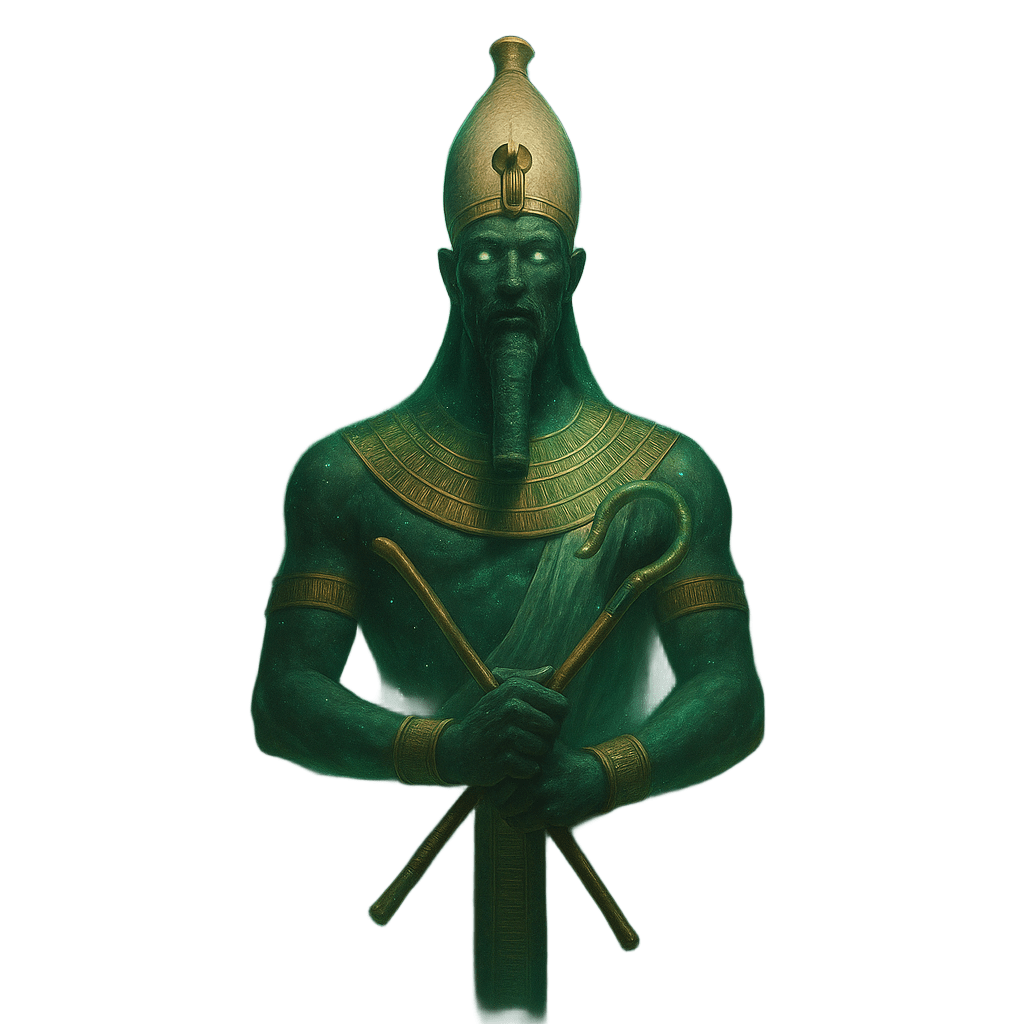
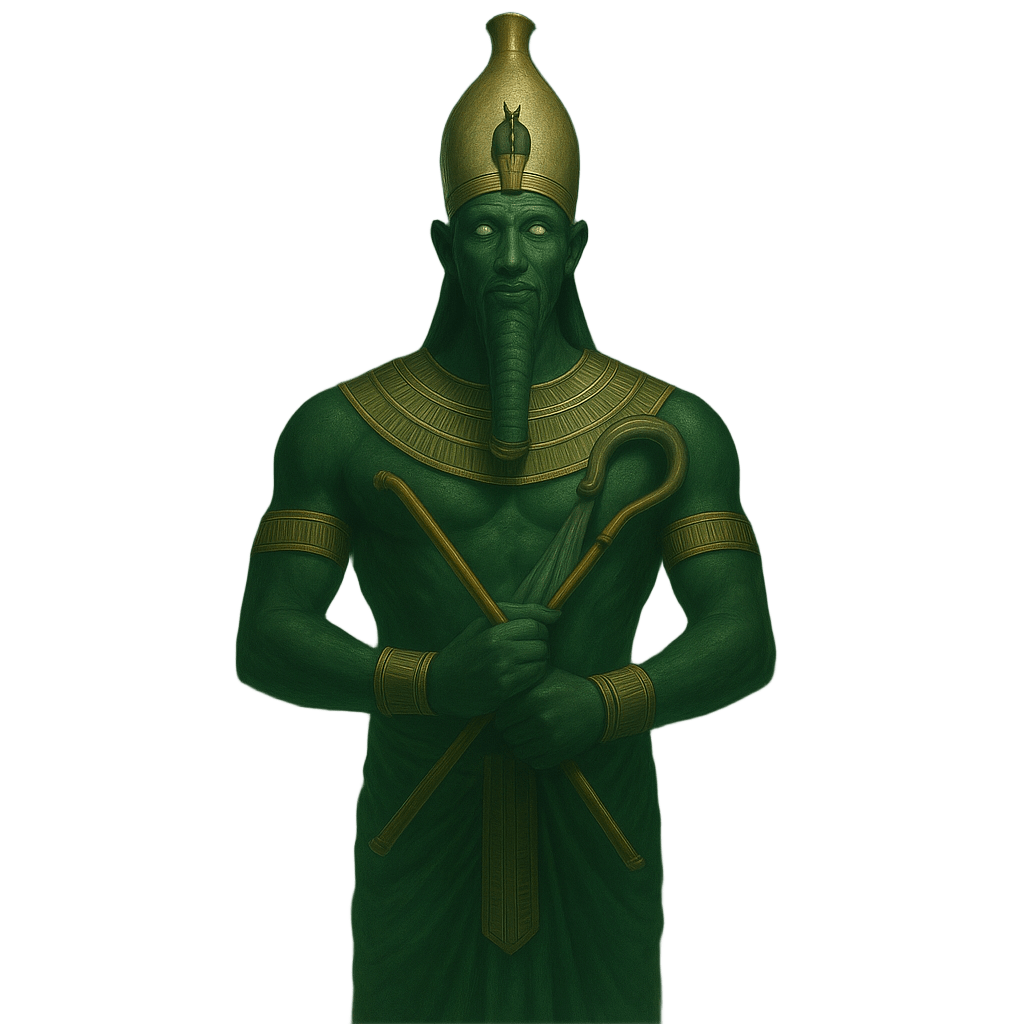
adicionando varias modificaçoes feitas ao longo da semana

Changed region(s): [[0.2188, 0.0, 0.7812, 1.0]]

diff --git a/src/css/style.css b/src/css/style.css
@@ -1,5 +1,5 @@
 body {
-    background-image: url(../imagens/background-principal.webp);
+    background-image: url(../imagens/5.png);
     background-size: cover;
     background-repeat: no-repeat;
     background-position: center;
@@ -26,9 +26,15 @@ h1 {
 
 }
 
+h2 {
+    color: #ffffff;
+    margin-top: 20px;
+
+}
+
 .subtitulo {
     font-size: 1.5rem;
-    color: #2c2727;
+    color: #ffffff;
     margin-bottom: 50px;
     text-align: center;
     text-shadow: 2px 2px 5px #000;
@@ -37,15 +43,21 @@ h1 {
 
 
 .botao {
-    min-width: 150px;
+    min-width: 300px;
+    min-height: 80px;
     max-width: 300px;
+    color:rgba(51, 223, 253, 0.9); 
     display: flex;
     justify-content: center;
-    background-color: #c8fccf;
+    background-image: url(../imagens/4.png);
+       background-size: cover;
+    background-repeat: no-repeat;
+    background-position: center;
+    /* background-attachment: fixed; */
     font-size: 20px;
     margin: 30px;
     border: none;
-    padding: 10px 20px;
+    padding: 25px 20px;
     border-radius: 10px;
     font-weight: bold;
     transition: 0.3s;
@@ -53,10 +65,10 @@ h1 {
 }
 
 .botao:hover {
-    background-color: #00cc44;
     color: #fff;
+    /* background-image: url(../imagens/5.png); */
     transform: translateY(-5px);
-    box-shadow: 0 10px 30px rgb(27, 12, 236);
+    box-shadow: 0 10px 30px #ffffff
 
 }
 
@@ -90,7 +102,7 @@ li {
 
 .comando img:hover {
     transform: scale(1.05);
-      box-shadow: 0 10px 30px rgb(52, 51, 65);
+      box-shadow: 0 10px 30px #ffffff
 }
 
 .legenda {
@@ -106,5 +118,6 @@ footer {
     padding: 2rem 1rem;
     margin-top: 3rem;
     font-size: 0.9rem;
-    color: #000000;
+    color: #ffffff;
 }
+

diff --git a/personagens/personagens.html b/personagens/personagens.html
@@ -385,7 +385,7 @@
                         <span class="tipo">Ignis</span>
 
                         <div class="cartao-imagem">
-                            <img src="./src//imagens/rammon (1).png" alt="rammon">
+                            <img src="./src//imagens/Rammon.png" alt="rammon">
                         </div>
                     </div>
 
@@ -486,12 +486,12 @@
 
 
                     <li class="personagem" id="seth">
-                        <img src="./src/imagens/Seth2.png" alt="Seth">
+                        <img src="./src/imagens/seth2.png" alt="Seth">
                         <span>Seth</span>
                     </li>
 
                     <li class="personagem" id="osiris">
-                        <img src="./src/imagens/osiris.png" alt="osiris">
+                        <img src="./src/imagens/osiris2.png" alt="osiris">
                         <span>Osiris</span>
                     </li>
 
@@ -533,7 +533,7 @@
                     </li>
 
                     <li class="personagem" id="rammon">
-                        <img src="./src/imagens/rammon (1).png" alt="Rammon">
+                        <img src="./src/imagens/Rammon2.png" alt="Rammon">
                         <span>Rammon</span>
                     </li>
 

diff --git a/index.html b/index.html
@@ -36,6 +36,7 @@
 
             <li><a href="comunidade/index.html" class="botao">Comunidade (feedback, fórum, etc.)</a></li>
 
+
         </ul>
 
         <div class="comando-container">
